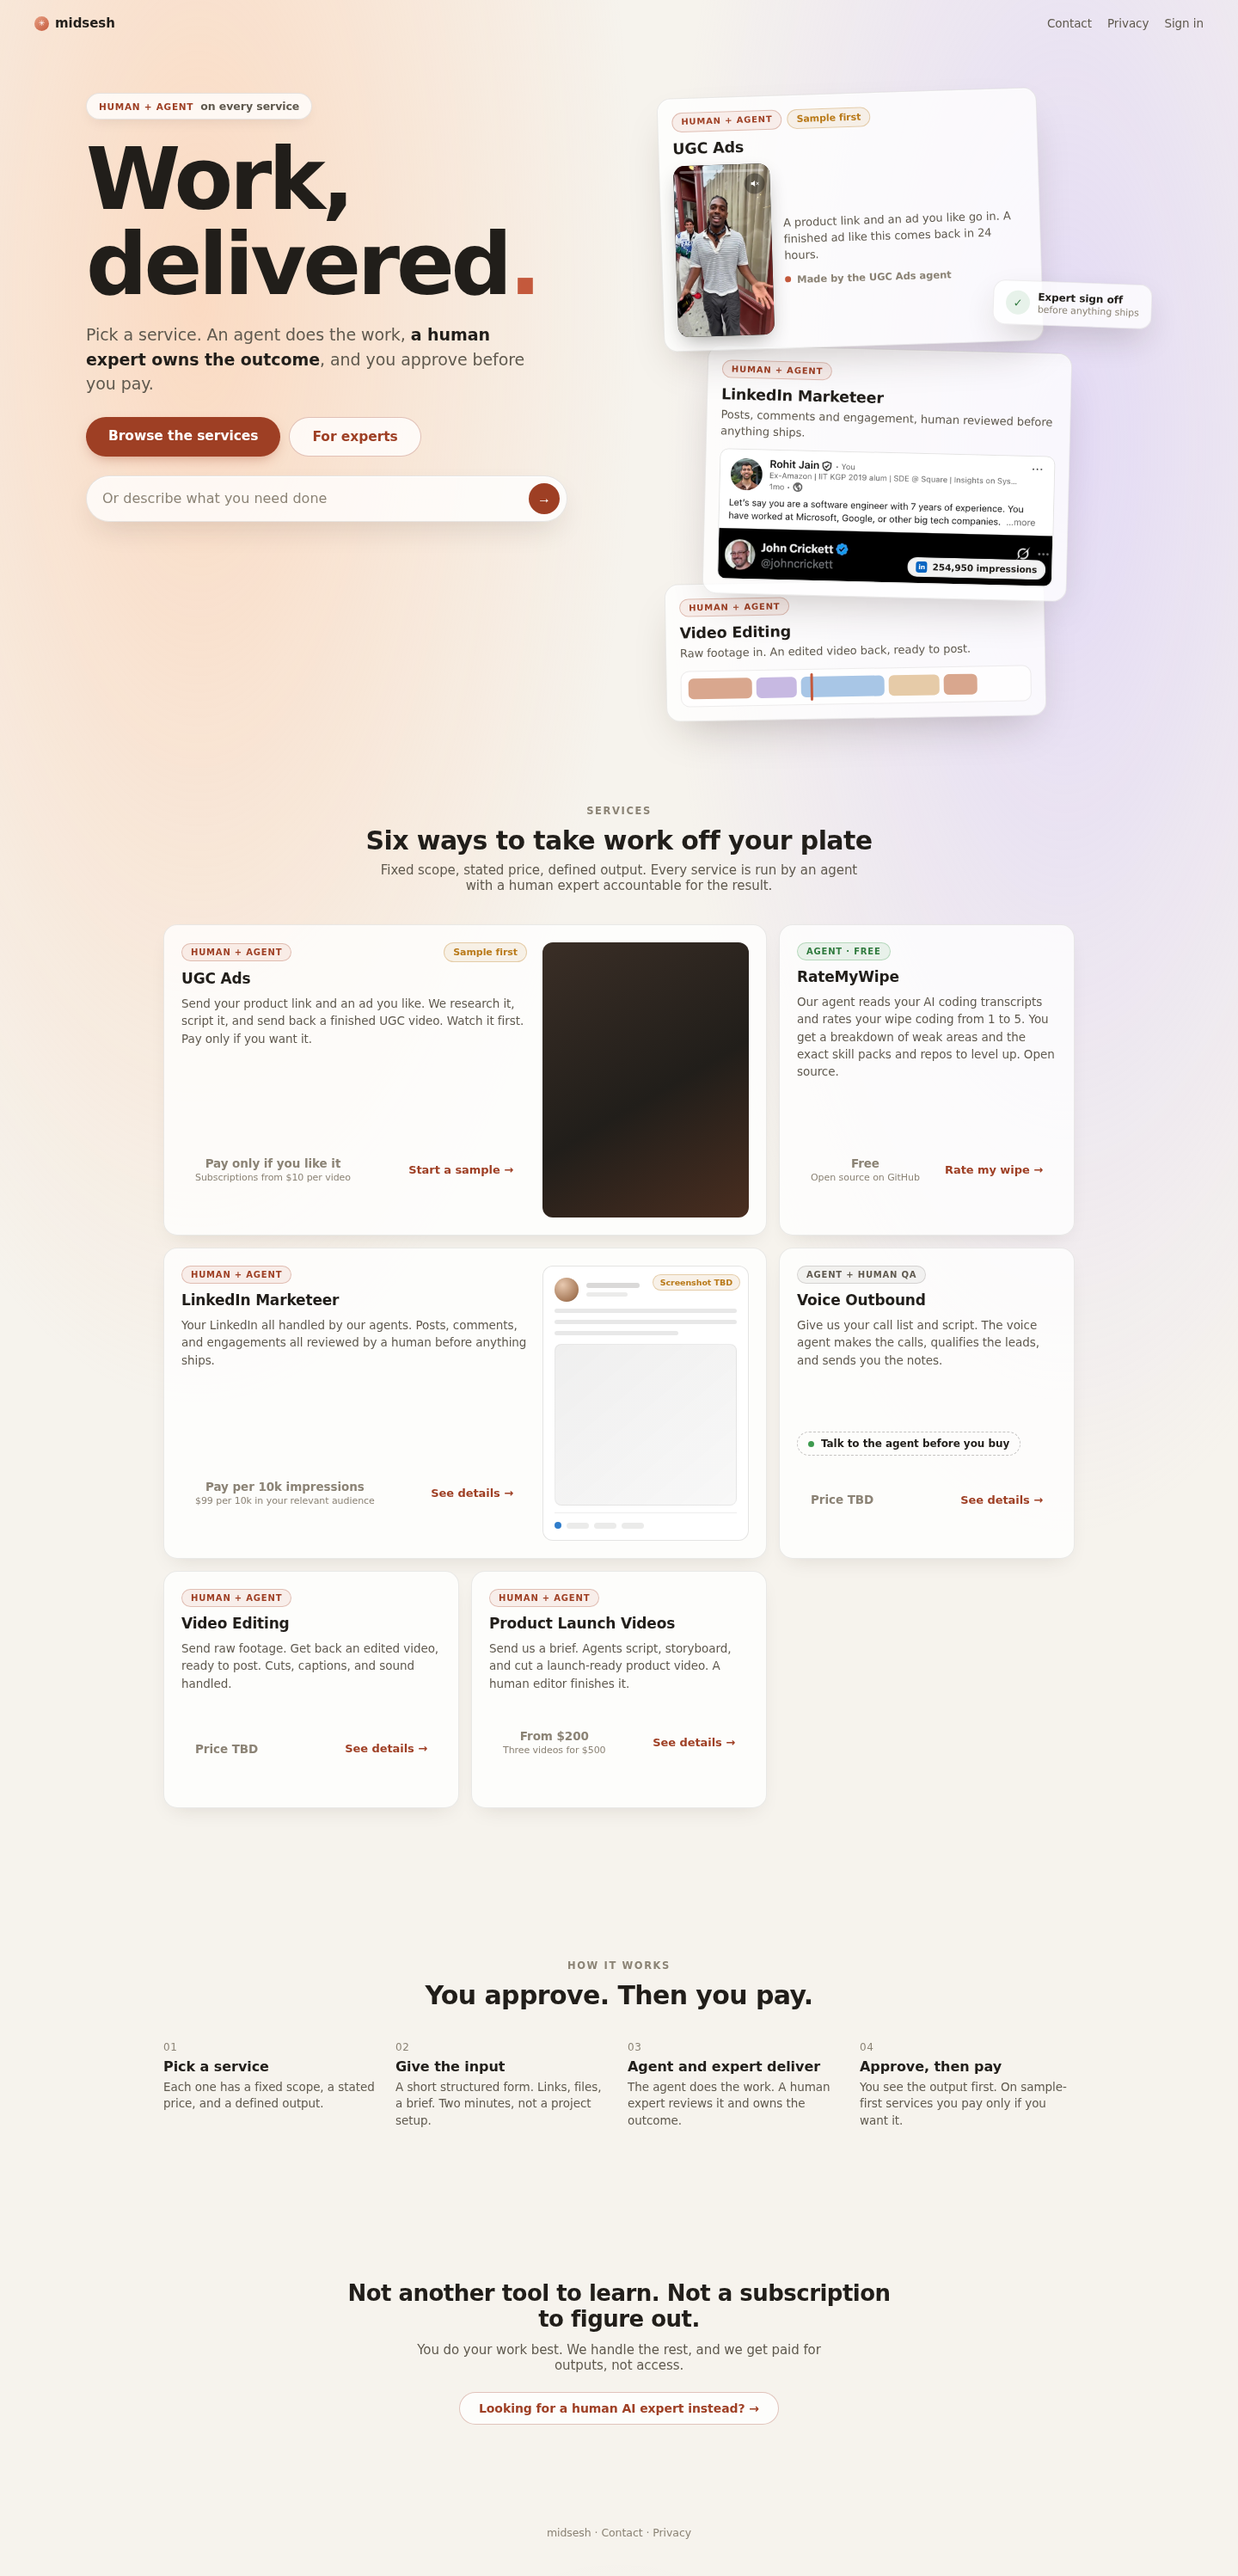
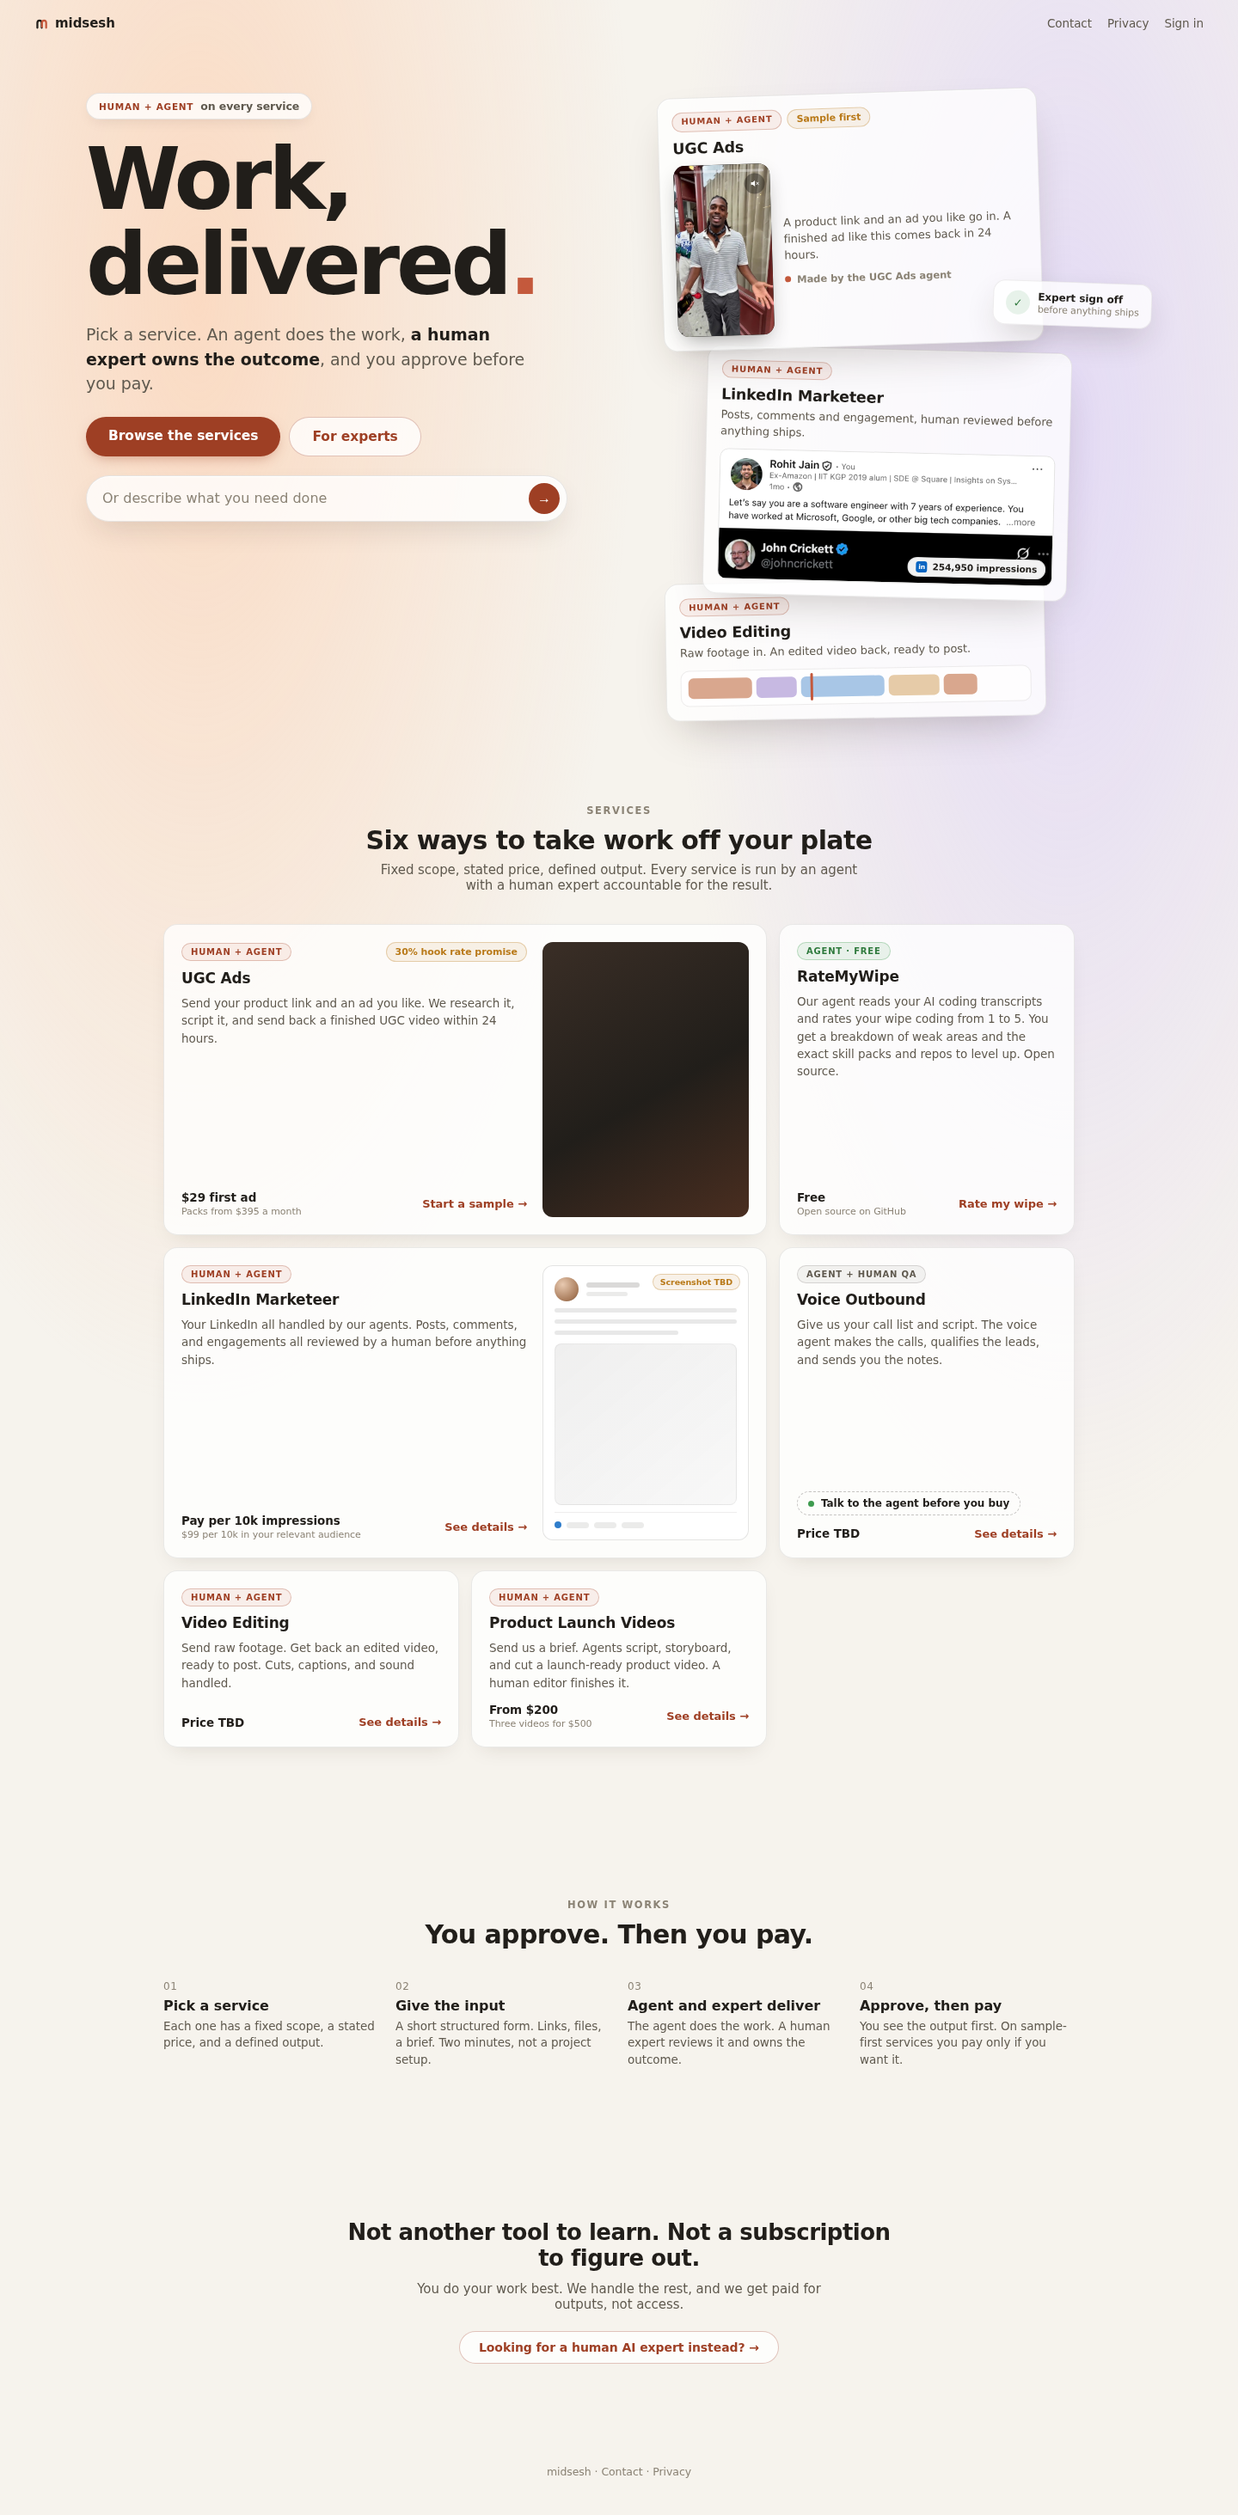
Apply the session 7 index fixes that never reached master
Session 7's entry records two fixes whose branch was deleted before they
landed: the UGC tile contradicting ugc.html, and the page footer rule
restyling every card footer. Both are re-applied here to that entry's
exact spec. The tile chip reads 30% hook rate promise, the price reads
29 dollars first ad with packs from 395 a month, and the body line ends
at within 24 hours. The page footer becomes .pagefoot, so tile prices
render as prices again instead of centered grey text. Shots re-taken
from the result.

Claude-Session: https://claude.ai/code/session_01EiQiJNySZvAub5ng4FyQKF

diff --git a/marketplace-preview/hifi/index.html b/marketplace-preview/hifi/index.html
@@ -221,7 +221,7 @@
   .btn.solid { background:var(--accent-deep); color:#fff; box-shadow:0 6px 16px -6px rgba(158,63,36,.5); }
   .btn.ghost { color:var(--accent-deep); border:1px solid rgba(158,63,36,.3); background:var(--glass-strong); }
 
-  .foot { text-align:center; color:var(--ink-3); font-size:12.5px; padding:30px 16px 40px; }
+  .pagefoot { text-align:center; color:var(--ink-3); font-size:12.5px; padding:30px 16px 40px; }
 </style>
 </head>
 <body>
@@ -298,12 +298,12 @@
           <div class="fbody">
             <div class="toprow">
               <span class="badge b-ha">Human + Agent</span>
-              <span class="samplechip">Sample first</span>
+              <span class="samplechip">30% hook rate promise</span>
             </div>
             <h3>UGC Ads</h3>
-            <p>Send your product link and an ad you like. We research it, script it, and send back a finished UGC video. Watch it first. Pay only if you want it.</p>
+            <p>Send your product link and an ad you like. We research it, script it, and send back a finished UGC video within 24 hours.</p>
             <div class="foot">
-              <span class="price">Pay only if you like it<small>Subscriptions from $10 per video</small></span>
+              <span class="price">$29 first ad<small>Packs from $395 a month</small></span>
               <span class="get">Start a sample →</span>
             </div>
           </div>
@@ -413,7 +413,7 @@
     </div>
   </section>
 
-  <div class="foot">midsesh · Contact · Privacy</div>
+  <div class="pagefoot">midsesh · Contact · Privacy</div>
 
 </div>
 <script>
